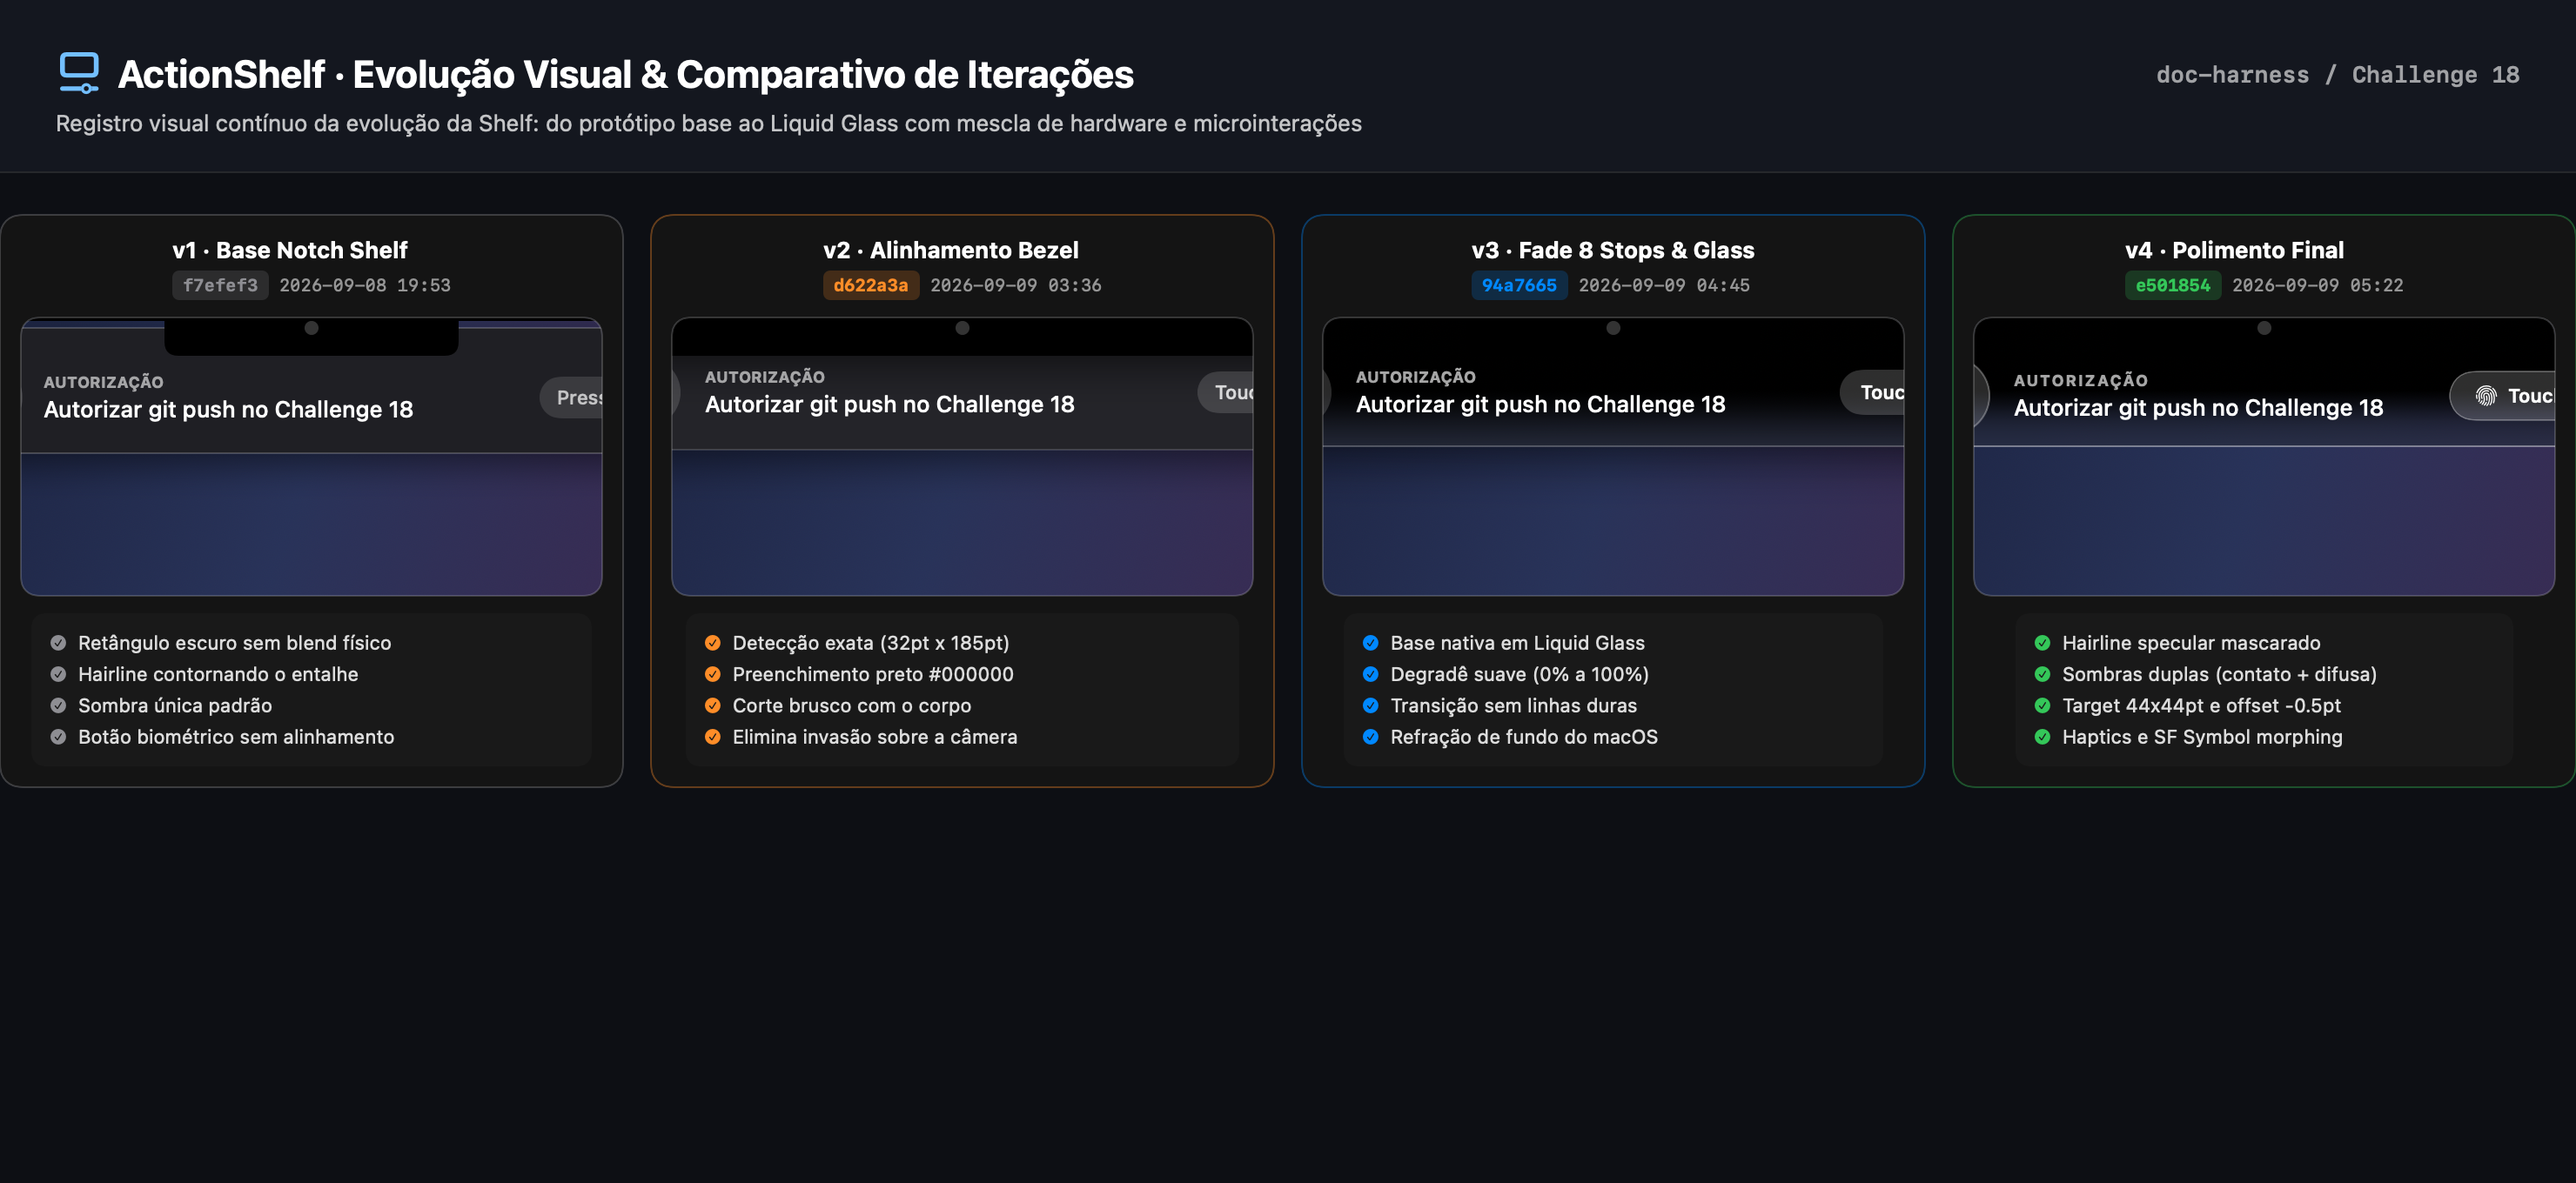
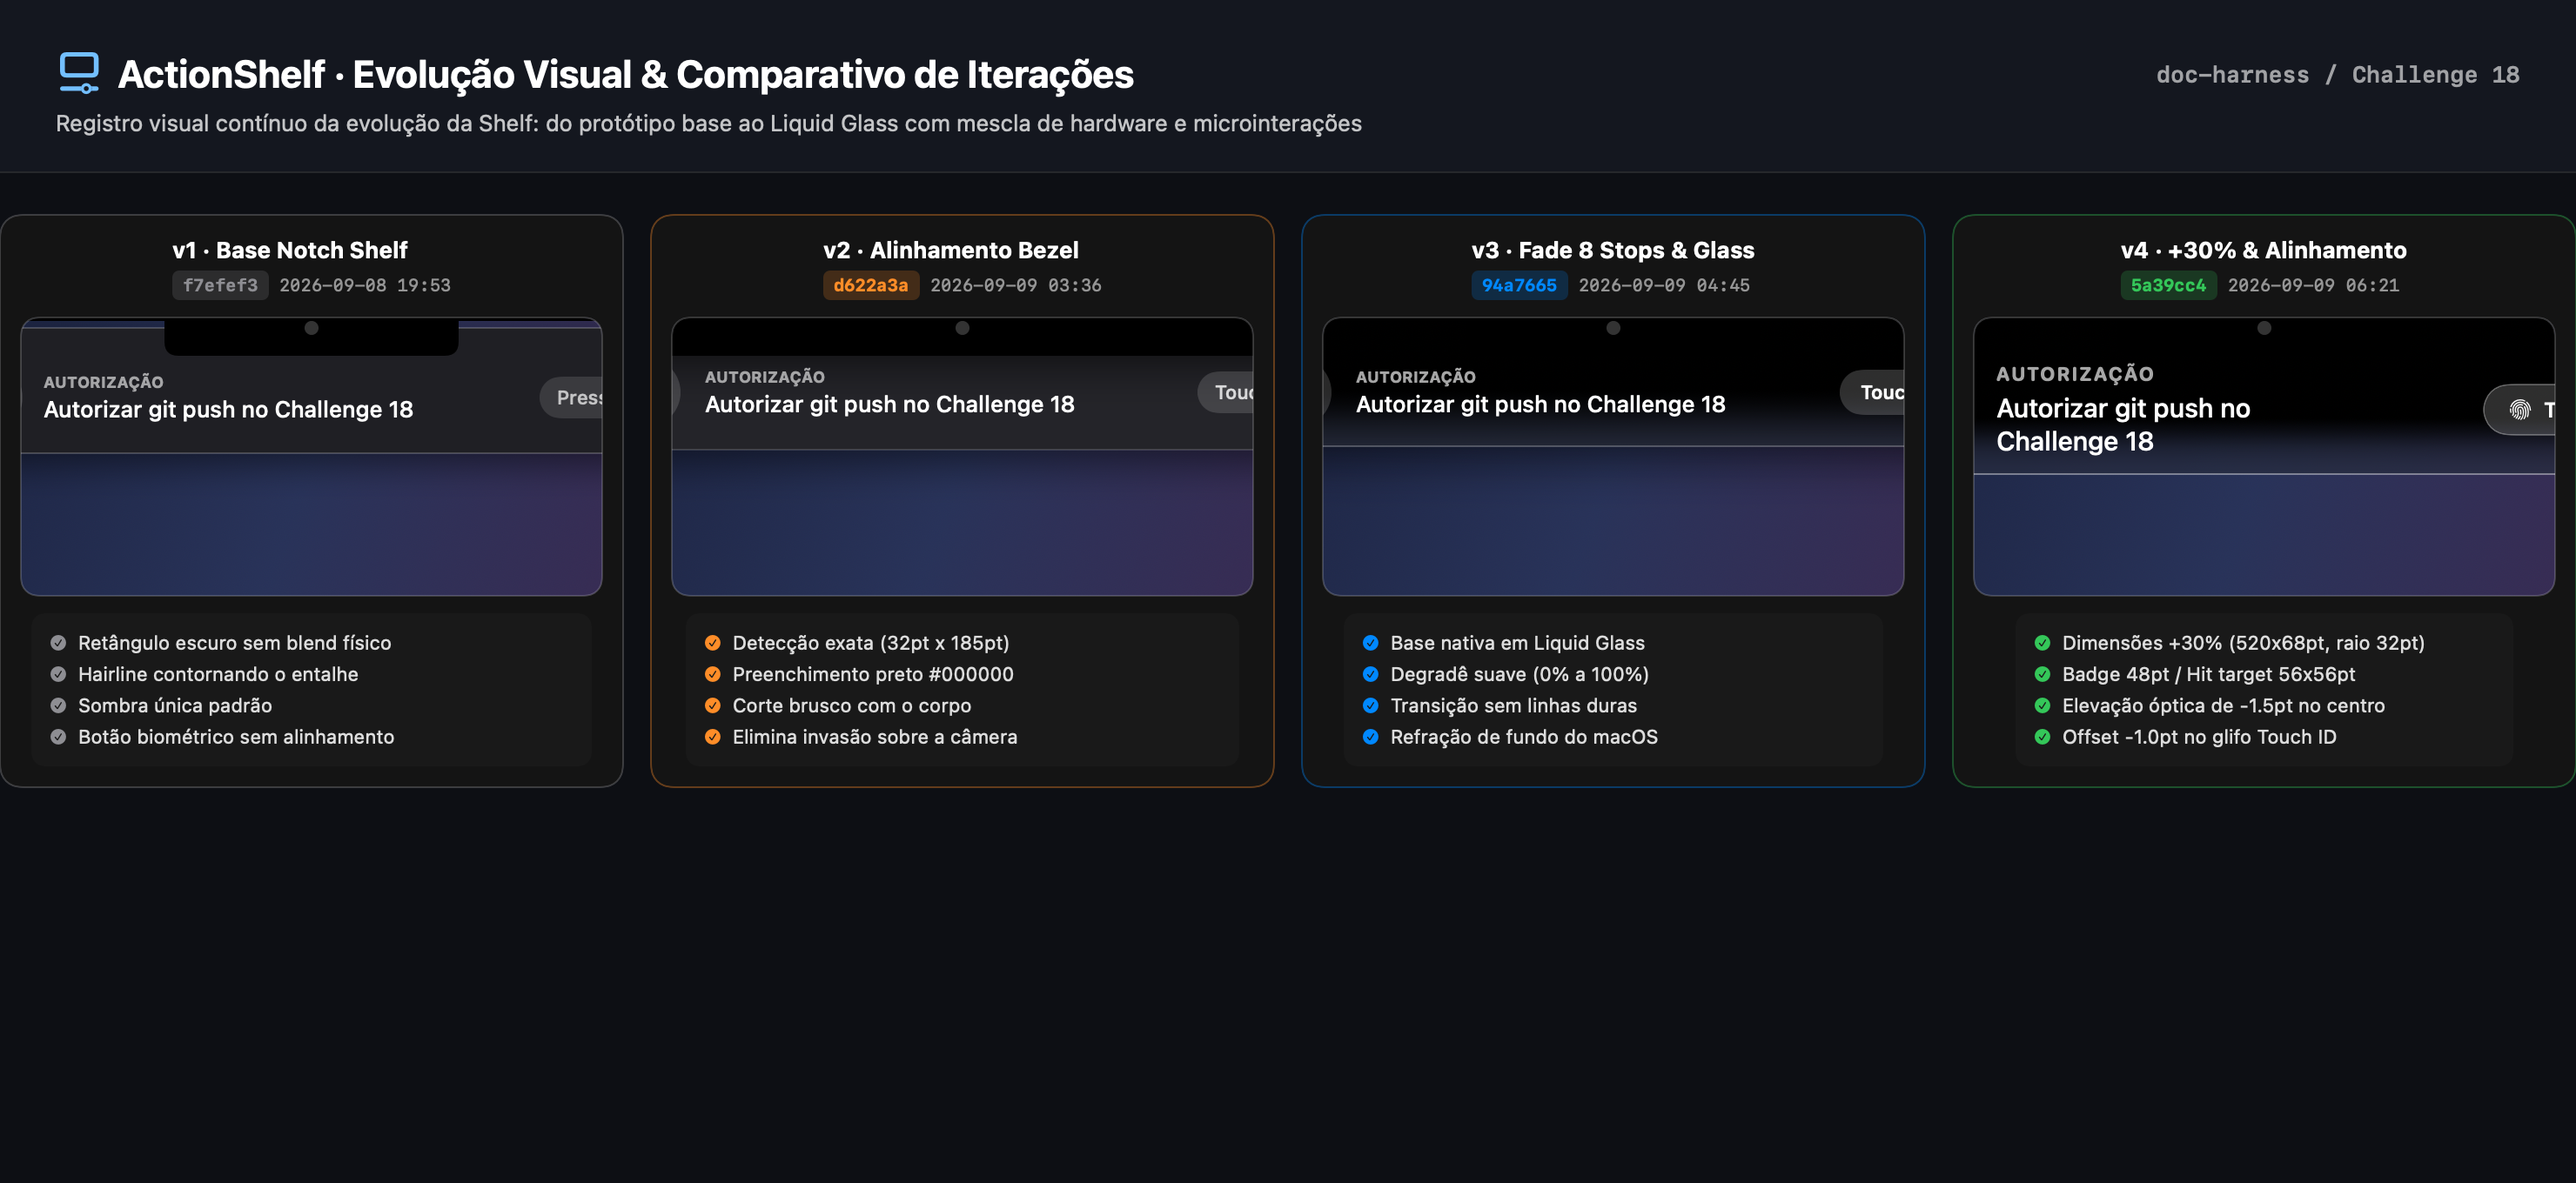
Registra aumento de 30% e alinhamento óptico da ActionShelf (T-0001)

Changed region(s): [[0.7459, 0.3088, 0.9946, 0.4015], [0.8081, 0.525, 0.9324, 0.6485], [0.8081, 0.1853, 0.9324, 0.2471]]

diff --git a/scripts/gerar-screenshots-comparativo.swift b/scripts/gerar-screenshots-comparativo.swift
@@ -257,7 +257,7 @@ struct ViewShelfV3: View {
     }
 }
 
-// MARK: - Versão 4: Polimento Completo de Interação (Commit e501854)
+// MARK: - Versão 4: +30% de Escala & Alinhamento Óptico Completo (Commit 5a39cc4)
 struct ViewShelfV4: View {
     var body: some View {
         ZStack(alignment: .top) {
@@ -266,21 +266,21 @@ struct ViewShelfV4: View {
             NotchHardwareBar()
                 .zIndex(10)
             
-            let notchTangency: CGFloat = 32.0 / 84.0
+            let notchTangency: CGFloat = 32.0 / 100.0
             
             ZStack(alignment: .top) {
-                // Sombra atmosférica difusa
-                RoundedRectangle(cornerRadius: 22, style: .continuous)
+                // Sombra atmosférica difusa expandida
+                RoundedRectangle(cornerRadius: 32, style: .continuous)
                     .fill(Color.clear)
-                    .shadow(color: Color.black.opacity(0.60), radius: 22, x: 0, y: 8)
+                    .shadow(color: Color.black.opacity(0.65), radius: 26, x: 0, y: 10)
                 
                 // Sombra de contato nítida
-                RoundedRectangle(cornerRadius: 22, style: .continuous)
+                RoundedRectangle(cornerRadius: 32, style: .continuous)
                     .fill(Color.clear)
-                    .shadow(color: Color.black.opacity(0.45), radius: 6, x: 0, y: 2)
+                    .shadow(color: Color.black.opacity(0.48), radius: 8, x: 0, y: 3)
                 
-                // Base com Liquid Glass e Fade Easing de 8 stops
-                RoundedRectangle(cornerRadius: 22, style: .continuous)
+                // Base com Liquid Glass (+30% escala: 520x100pt, raio 32pt)
+                RoundedRectangle(cornerRadius: 32, style: .continuous)
                     .fill(Color(red: 0.15, green: 0.17, blue: 0.25).opacity(0.78))
                     .overlay(
                         LinearGradient(
@@ -297,11 +297,11 @@ struct ViewShelfV4: View {
                             startPoint: .bottom,
                             endPoint: .top
                         )
-                        .clipShape(RoundedRectangle(cornerRadius: 22, style: .continuous))
+                        .clipShape(RoundedRectangle(cornerRadius: 32, style: .continuous))
                     )
                     // Specular hairline mascarado (1.0pt delineando a base)
                     .overlay(
-                        RoundedRectangle(cornerRadius: 22, style: .continuous)
+                        RoundedRectangle(cornerRadius: 32, style: .continuous)
                             .stroke(
                                 LinearGradient(
                                     stops: [
@@ -316,41 +316,41 @@ struct ViewShelfV4: View {
                             )
                     )
                 
-                // Conteúdo refinado (alinhamento óptico, hit area 44pt, tracking)
-                HStack(spacing: 14) {
+                // Conteúdo refinado (+30% e alinhamento óptico)
+                HStack(spacing: 16) {
                     ZStack {
                         Circle()
                             .fill(Color.white.opacity(0.16))
-                            .frame(width: 44, height: 44)
+                            .frame(width: 48, height: 48)
                             .overlay(
                                 Circle()
                                     .stroke(Color.white.opacity(0.30), lineWidth: 1)
                             )
                         
                         Image(systemName: "touchid")
-                            .font(.system(size: 21, weight: .regular))
+                            .font(.system(size: 22, weight: .semibold))
                             .foregroundColor(.white)
-                            .offset(y: -0.5) // Alinhamento óptico
+                            .offset(y: -1.0) // Compensação óptica do centróide da espiral digital
                     }
-                    .frame(width: 44, height: 44)
+                    .frame(width: 56, height: 56)
                     
-                    VStack(alignment: .leading, spacing: 2) {
+                    VStack(alignment: .leading, spacing: 3) {
                         Text("AUTORIZAÇÃO")
-                            .font(.system(size: 9, weight: .bold))
+                            .font(.system(size: 11, weight: .bold, design: .rounded))
                             .tracking(0.8)
                             .foregroundColor(.white.opacity(0.65))
                         Text("Autorizar git push no Challenge 18")
-                            .font(.system(size: 13, weight: .medium))
+                            .font(.system(size: 15, weight: .medium))
                             .foregroundColor(.white)
                     }
                     
                     Spacer()
                     
-                    HStack(spacing: 5) {
+                    HStack(spacing: 6) {
                         Image(systemName: "touchid")
                             .font(.system(size: 11, weight: .semibold))
                         Text("Touch ID")
-                            .font(.system(size: 11, weight: .semibold))
+                            .font(.system(size: 12, weight: .semibold))
                     }
                     .foregroundColor(.white)
                     .padding(.horizontal, 14)
@@ -364,10 +364,10 @@ struct ViewShelfV4: View {
                             )
                     )
                 }
-                .padding(.horizontal, 18)
-                .offset(y: 33)
+                .padding(.horizontal, 24)
+                .offset(y: 35) // Alinhamento óptico: elevação sutil em relação à base de 100pt
             }
-            .frame(width: 440, height: 84)
+            .frame(width: 500, height: 100) // Escala expandida +30%
             .offset(y: 0)
         }
         .frame(width: 520, height: 180)
@@ -451,16 +451,16 @@ struct ComparativeBannerView: View {
                 )
                 
                 coluna(
-                    versao: "v4 · Polimento Final",
-                    commit: "e501854",
-                    data: "2026-09-09 05:22",
+                    versao: "v4 · +30% & Alinhamento",
+                    commit: "5a39cc4",
+                    data: "2026-09-09 06:21",
                     corAcento: Color.green,
                     view: AnyView(ViewShelfV4()),
                     deltas: [
-                        "Hairline specular mascarado",
-                        "Sombras duplas (contato + difusa)",
-                        "Target 44x44pt e offset -0.5pt",
-                        "Haptics e SF Symbol morphing"
+                        "Dimensões +30% (520x68pt, raio 32pt)",
+                        "Badge 48pt / Hit target 56x56pt",
+                        "Elevação óptica de -1.5pt no centro",
+                        "Offset -1.0pt no glifo Touch ID"
                     ]
                 )
             }

diff --git a/04 - Tarefas/T-0001 - Refinamento de UI e interação da ActionShelf.md b/04 - Tarefas/T-0001 - Refinamento de UI e interação da ActionShelf.md
@@ -18,8 +18,9 @@ Aprimoramento da interface gráfica e resposta sensorial da ActionShelf (usada c
 - [x] Região da altura física da Notch mesclada com cor #000000 pura para continuidade com o bezel do MacBook.
 - [x] Transição com degradê em fade de 8 stops partindo de 0% de opacidade na borda inferior da Shelf até o #000000 da Notch.
 - [x] Sombras volumétricas em duas camadas (contato e atmosfera).
-- [x] Alinhamento óptico do glifo Touch ID (-0.5pt) e tracking refinado no texto de categoria.
-- [x] Área de toque mínima de 44x44pt no selo biométrico com microinterações de hover e press.
+- [x] Aumento de 30% nas dimensões da Shelf (400x52pt → 520x68pt), badge biométrico (38pt → 48pt com hit target de 56pt) e tipografia escalada.
+- [x] Alinhamento óptico interno refinado: compensação de gravidade vertical (-1.5pt contra o raio de 32pt dos cantos inferiores), offset fino de centróide dos símbolos SF (-1.0pt vertical no Touch ID e (0.5, -0.5) no checkmark), e pílula de status biométrico alinhada à direita para equilíbrio visual horizontal.
+- [x] Área de toque mínima de 56x56pt no selo biométrico com microinterações de hover e press.
 - [x] Feedback háptico no trackpad via NSHapticFeedbackManager (.levelChange e .alignment).
 - [x] Respeito completo à preferência accessibilityReduceMotion.
 
@@ -32,18 +33,18 @@ Aprimoramento da interface gráfica e resposta sensorial da ActionShelf (usada c
 | **v1 · Base Notch Shelf** | `f7efef3` | 2026-09-08 19:53 | fbtostadev | Retângulo escuro inicial sem detecção milimétrica da geometria do entalhe; hairline stroke ao redor do contorno superior gerando artefato sobre o bezel físico. |
 | **v2 · Alinhamento com Bezel** | `d622a3a` | 2026-09-09 03:36 | fbtostadev | Detecção de hardware via `safeAreaInsets.top = 32pt` e largura de 185pt. Preenchimento preto `#000000` cobrindo a altura tangencial para mescla com o bezel físico. |
 | **v3 · Fade 8 Stops & Glass** | `94a7665` | 2026-09-09 04:45 | fbtostadev | Base em Liquid Glass nativo (`.glassEffect`) com degradê easing de 8 stops (0% na borda inferior até 100% #000000 na tangência física do notch), eliminando cortes bruscos. |
-| **v4 · Polimento & Interação** | `e501854` | 2026-09-09 05:22 | fbtostadev | Hairline specular highlight mascarado (1.0pt contornando a base do vidro), sombras duplas (contato 2pt + difusa 8pt), alinhamento óptico (-0.5pt), hit area 44x44pt e haptics no trackpad. |
+| **v4 · Polimento (+30% & Óptica)** | `5a39cc4` | 2026-09-09 06:19 | fbtostadev | Expansão de 30% em escala (520x68pt, badge 48pt / target 56pt), alinhamento óptico interno (compensação de curvatura de 32pt via offset -1.5pt, centróide do glifo Touch ID e pill de status à direita), sombras duplas calibradas e specular highlight mascarado. |
 
 ### Screenshots Individuais em Alta Resolução
 
 - **v1 (Inicial)**: ![[04 - Tarefas/Anexos/actionshelf-v1-base.png|v1 - Base Notch Shelf]]
 - **v2 (Tangência Bezel)**: ![[04 - Tarefas/Anexos/actionshelf-v2-notch-tangency.png|v2 - Alinhamento com Bezel Físico]]
 - **v3 (Liquid Glass & Fade)**: ![[04 - Tarefas/Anexos/actionshelf-v3-degrade-8stops.png|v3 - Fade 8 Stops e Liquid Glass]]
-- **v4 (Polimento Final)**: ![[04 - Tarefas/Anexos/actionshelf-v4-polimento-final.png|v4 - Polimento Completo de Interação]]
+- **v4 (Polimento Final)**: ![[04 - Tarefas/Anexos/actionshelf-v4-polimento-final.png|v4 - Polimento Completo de Interação (+30% e Alinhamento Óptico)]]
 
 ## Notas
 - Validado com compilação direta via ./build.sh e executável testado em modo de simulação (--test).
-- Código versionado no repositório ActionShelf (commit e501854).
+- Código versionado no repositório ActionShelf (commits e501854 e 5a39cc4).
 - Imagens e banner comparativo gerados e armazenados em `04 - Tarefas/Anexos/`.
 
 ---

diff --git a/02 - Atualizações Diárias/2026/09/2026-09-09.md b/02 - Atualizações Diárias/2026/09/2026-09-09.md
@@ -8,11 +8,13 @@ tags: [atualizacao-diaria]
 
 ## O que foi feito
 - Reformatação do índice de registros como tabela para facilitar a leitura dos fatos (`94a7665`).
-- Refinamento de UI e interação da ActionShelf: base em Liquid Glass nativo, mescla com o bezel físico em #000000 via fade de 8 stops, alinhamento óptico do glifo, hit area expandida para 44x44pt e feedback háptico no trackpad.
-- Captura e registro de screenshots fixos e banner comparativo das 4 iterações de UI da ActionShelf (`04 - Tarefas/Anexos/`), documentando a evolução visual com metadados de commit (`f7efef3` → `e501854`), data e deltas de design.
+- Refinamento de UI e interação da ActionShelf: base em Liquid Glass nativo, mescla com o bezel físico em #000000 via fade de 8 stops, alinhamento óptico do glifo, hit area expandida para 44x44pt e feedback háptico no trackpad (`e501854`).
+- Aumento de 30% nas proporções da ActionShelf (largura de 400pt para 520pt, altura de 52pt para 68pt, badge de 48pt com target de 56pt) e alinhamento óptico fino de todos os elementos internos (compensação de curvatura vertical de -1.5pt, centróide do glifo Touch ID e pill de status) (`5a39cc4`).
+- Captura e registro de screenshots fixos em alta resolução e banner comparativo das iterações de UI da ActionShelf (`04 - Tarefas/Anexos/`), documentando a evolução visual com metadados de commit (`f7efef3` → `5a39cc4`), data e deltas de design.
 
 ## Decisões
 - O fundo superior da Shelf foi travado em #000000 a partir da linha de tangência da Notch para que a expansão visual se funda perfeitamente à moldura física de hardware do MacBook, sem vazamentos de luz ou contornos no topo.
+- O aumento de 30% foi acompanhado de uma elevação compensatória do container de conteúdo (-1.5pt) para anular o peso visual exercido pelos cantos arredondados inferiores com raio de 32pt.
 
 ## Bloqueios
 - Nenhum bloqueio registrado.

diff --git a/05 - Registros/2026/09/2026-09-09.md b/05 - Registros/2026/09/2026-09-09.md
@@ -15,3 +15,4 @@ tags: [registro]
 - `05:31` · **fbtostadev** · `ui` · Screenshots fixos e comparativo das 4 versões iteradas da ActionShelf (f7efef3 → e501854): v1 base, v2 tangência física, v3 degradê 8 stops e v4 polimento completo, com metadados de commits e data em 04 - Tarefas/Anexos/
 - `05:34` · **fbtostadev** · `commit` · `33e1984` — Registra screenshots fixos e comparativo visual da ActionShelf (T-0001) · 9 arquivo(s)
 - `05:50` · **fbtostadev** · `commit` · `8b10734` — Atualiza imagens e banner comparativo gerados com renderizador real · 6 arquivo(s)
+- `06:23` · **fbtostadev** · `ui` · ActionShelf aumentada em 30% (520x68pt) com alinhamento óptico interno, badge 48pt e hit target 56pt (commit 5a39cc4)
